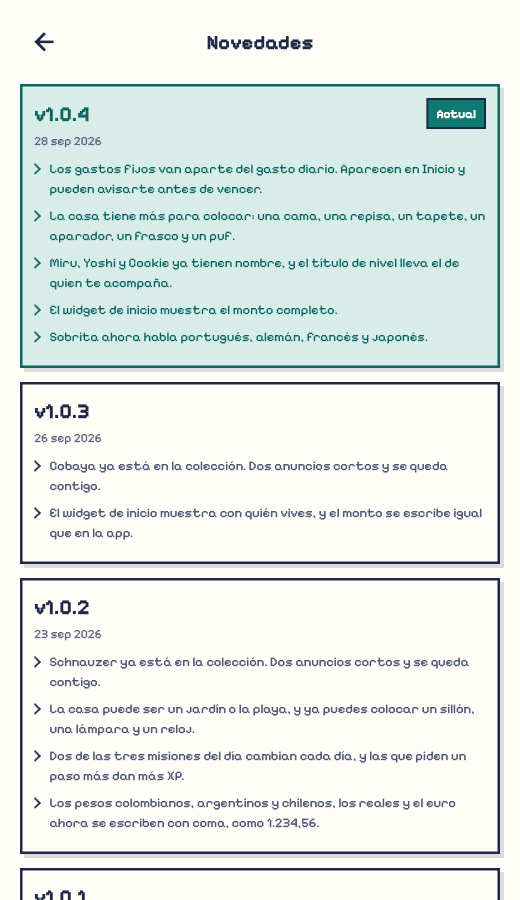
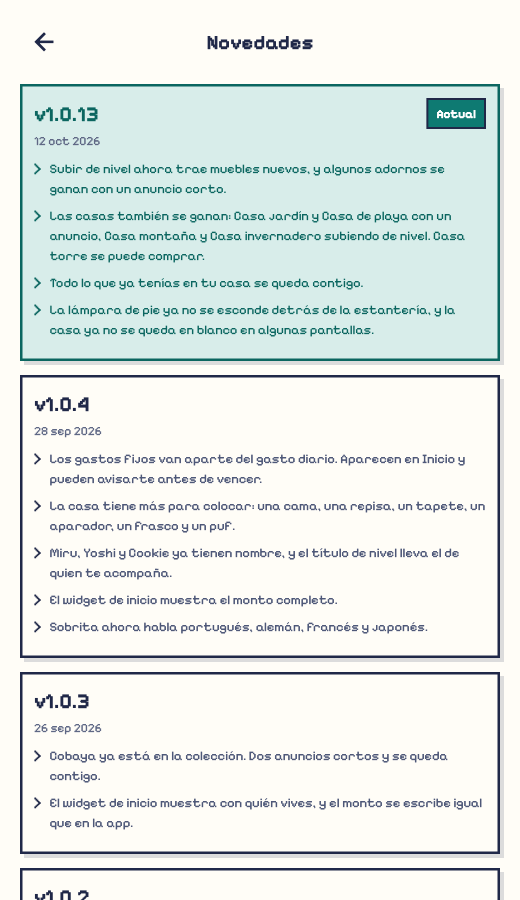
chore: move to 1.0.13+19 with release notes for unlockable rewards
Notes in all seven languages: level and ad rewards, earnable rooms,
nothing taken from existing houses, and the lamp/bookcase and blank-room
fixes. 1.0.0 drops off to keep five versions, and the two tests that
named it now read the oldest note instead.

Changed region(s): [[0.0308, 0.0933, 0.9846, 0.9333], [0.1538, 0.9956, 0.1846, 1.0]]

diff --git a/test/release_announcement_test.dart b/test/release_announcement_test.dart
@@ -15,17 +15,18 @@ import 'package:sobra_app/widgets/release_announcement.dart';
 import 'support/localizations.dart';
 
 /// Notes of its own rather than the shipped list, so these tests keep saying
-/// what they mean after a release is added and the oldest one drops off.
+/// what they mean after a release is added and the oldest one drops off. The
+/// line is a literal for the same reason: an ARB key leaves with its release.
 final _notes = <ReleaseNote>[
   ReleaseNote(
     version: '1.1.0',
     releasedOn: DateTime(2026, 10, 2),
-    lines: [(l10n) => l10n.releaseNote100Launch],
+    lines: [(_) => 'Primera versión de Sobrita.'],
   ),
   ReleaseNote(
     version: '1.0.0',
     releasedOn: DateTime(2026, 9, 11),
-    lines: [(l10n) => l10n.releaseNote100Launch],
+    lines: [(_) => 'Primera versión de Sobrita.'],
   ),
 ];
 

diff --git a/lib/data/release_notes.dart b/lib/data/release_notes.dart
@@ -37,6 +37,16 @@ class ReleaseNote {
 /// nothing, which is what [ReleaseAnnouncements] reads a missing note as.
 final releaseNotes = <ReleaseNote>[
   ReleaseNote(
+    version: '1.0.13',
+    releasedOn: DateTime(2026, 10, 12),
+    lines: [
+      (l10n) => l10n.releaseNote1013Rewards,
+      (l10n) => l10n.releaseNote1013Rooms,
+      (l10n) => l10n.releaseNote1013Kept,
+      (l10n) => l10n.releaseNote1013Fixes,
+    ],
+  ),
+  ReleaseNote(
     version: '1.0.4',
     releasedOn: DateTime(2026, 9, 28),
     lines: [
@@ -72,10 +82,5 @@ final releaseNotes = <ReleaseNote>[
       (l10n) => l10n.releaseNote101Currencies,
       (l10n) => l10n.releaseNote101Celebration,
     ],
-  ),
-  ReleaseNote(
-    version: '1.0.0',
-    releasedOn: DateTime(2026, 9, 11),
-    lines: [(l10n) => l10n.releaseNote100Launch],
   ),
 ];

diff --git a/test/release_notes_test.dart b/test/release_notes_test.dart
@@ -212,7 +212,10 @@ void main() {
     testWidgets('opens the notes from the Novedades row', (tester) async {
       await tester.pumpWidget(
         await settings(
-          () async => const AppVersion(version: '1.0.0', buildNumber: '1'),
+          // The oldest note, whatever it is by now: '1.0.0' was pinned here
+          // and stopped matching anything once it aged out.
+          () async =>
+              AppVersion(version: releaseNotes.last.version, buildNumber: '1'),
         ),
       );
       await tester.pumpAndSettle();
